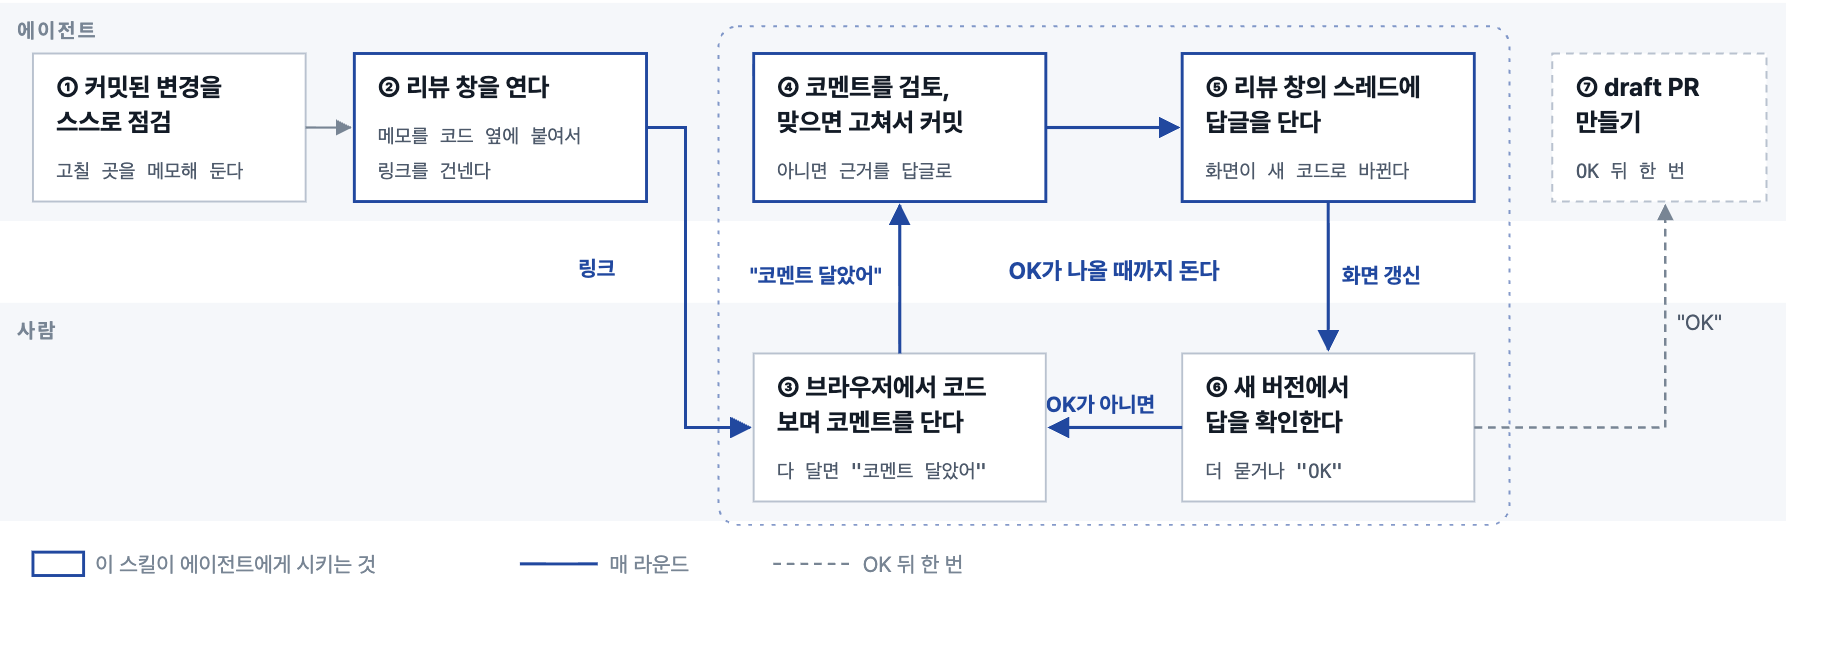
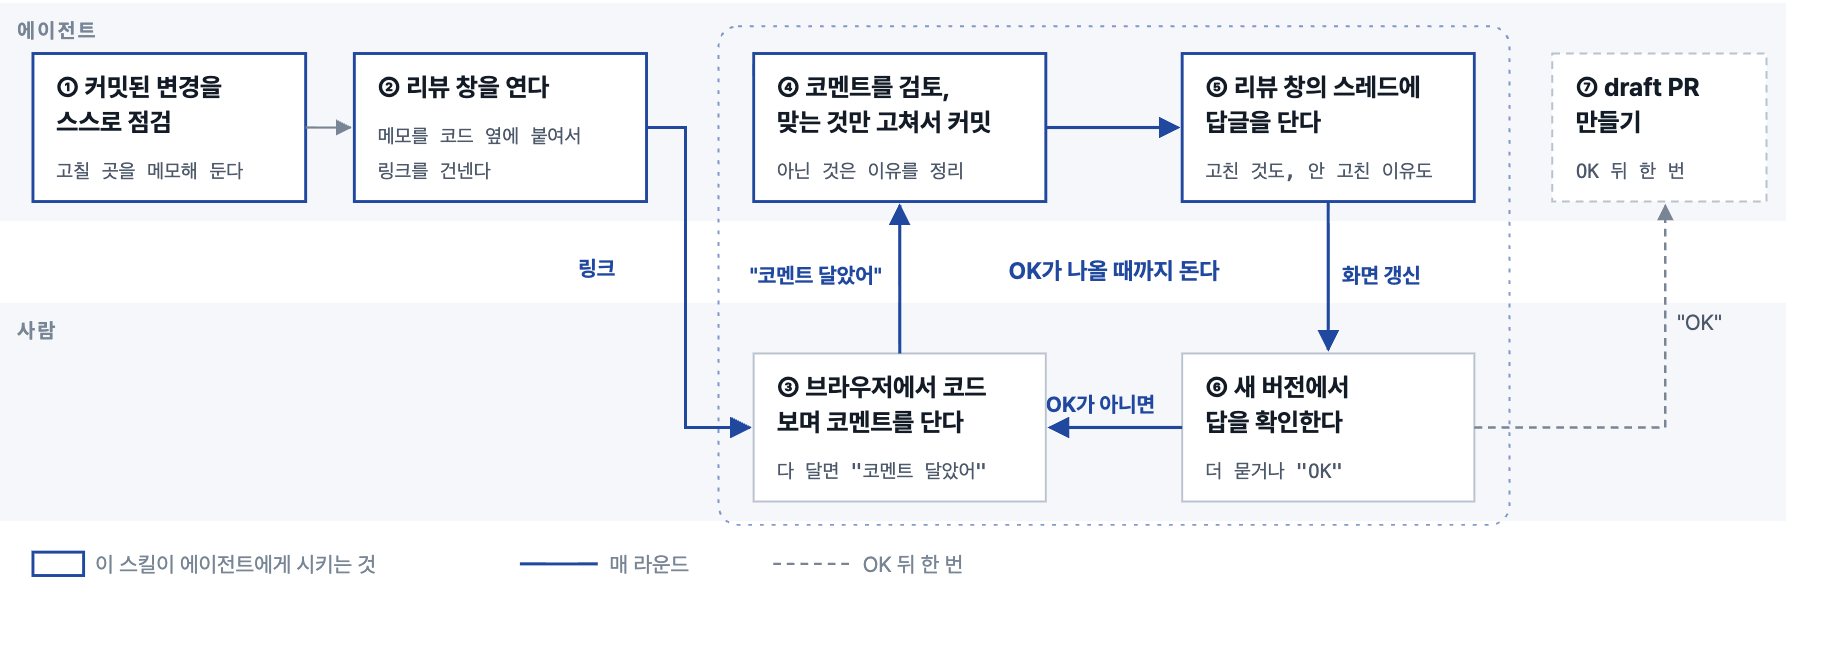
docs: 도식 점검 — ④⑤ 역할 분리(판단·커밋 / 답글), ①도 스킬 담당으로 표시

diff --git a/README.md b/README.md
@@ -14,7 +14,7 @@ Node ≥ 21이면 difit은 `npx`로 알아서 받는다.
 
 ## 한 라운드
 
-<img src="docs/loop.png" alt="한 라운드 — 에이전트: ① 커밋된 변경을 스스로 점검 → ② 리뷰 창을 연다 → ④ 코멘트를 검토, 맞으면 고쳐서 커밋(아니면 근거를 답글로) → ⑤ 리뷰 창의 스레드에 답글을 단다 → ⑦ draft PR 만들기. 사람: ③ 브라우저에서 코드 보며 코멘트를 단다 → 코멘트 달았어 → ⑥ 새 버전에서 답을 확인한다 → 더 묻거나 OK" width="100%">
+<img src="docs/loop.png" alt="한 라운드 — 에이전트: ① 커밋된 변경을 스스로 점검 → ② 리뷰 창을 연다 → ④ 코멘트를 검토, 맞는 것만 고쳐서 커밋 → ⑤ 리뷰 창의 스레드에 답글을 단다(고친 것도, 안 고친 이유도) → ⑦ draft PR 만들기. 사람: ③ 브라우저에서 코드 보며 코멘트를 단다 → 코멘트 달았어 → ⑥ 새 버전에서 답을 확인한다 → 더 묻거나 OK" width="100%">
 
 점선 상자가 한 라운드다 — ③→④→⑤→⑥이 돌고, OK가 나올 때까지 반복한다. 사람이 하는 일은 ③과 ⑥뿐이다 —
 **브라우저에서 코드를 보며 코멘트를 달고 "코멘트 달았어"**, 반영을 보고 **더 묻거나 "OK"**. 나머지는 에이전트가 한다.
